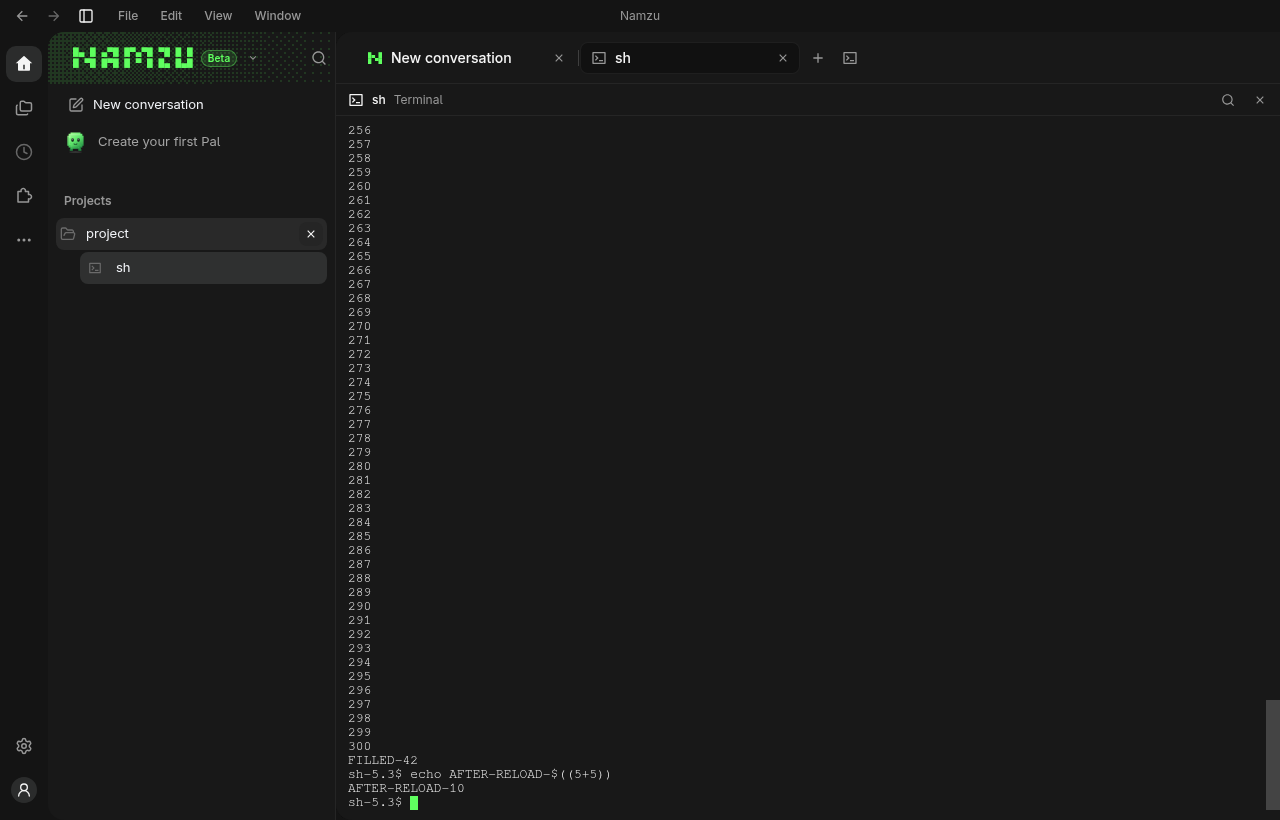
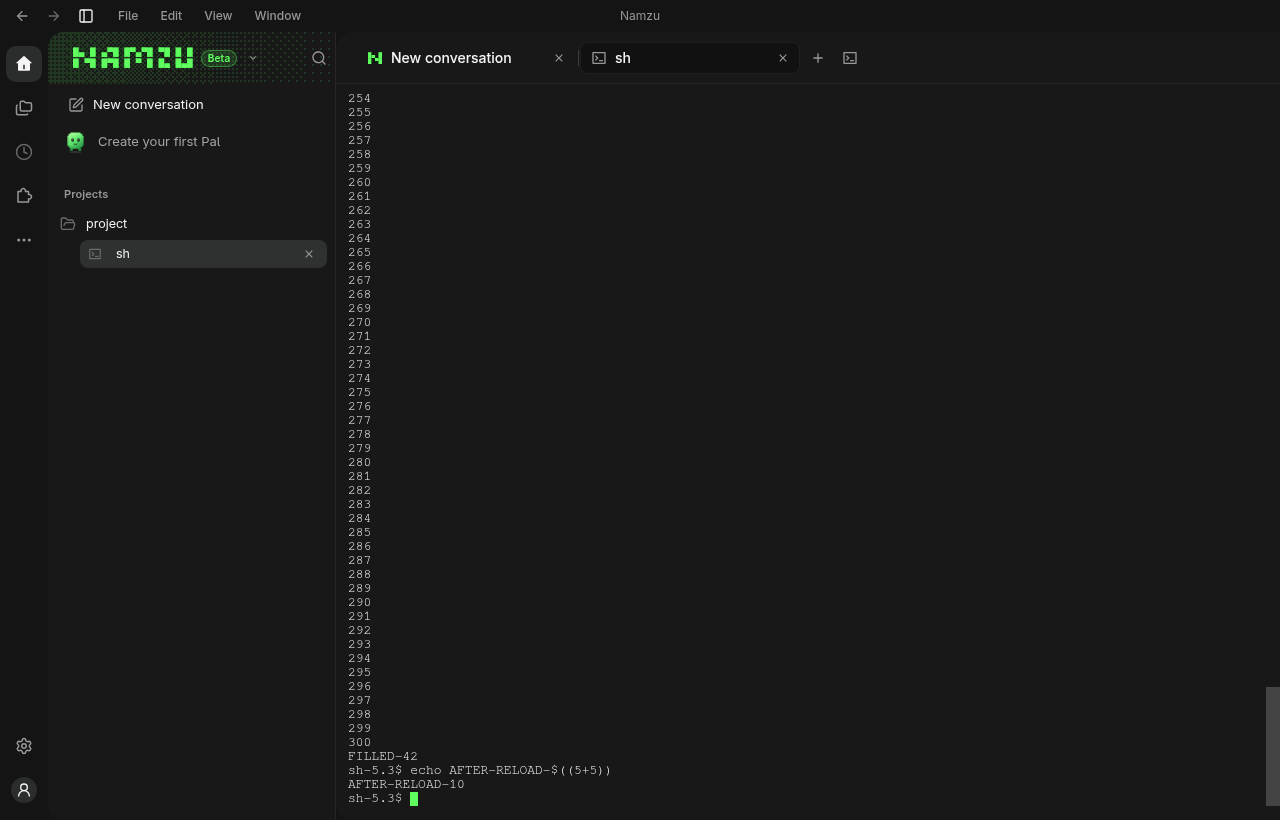
fix(desktop): no header bar on terminal panes, and a click on the pane keeps the keyboard
The pane drew its own bar (mark, title, status, find, close) that
repeated the tab strip, and pressing that bar moved focus to the page,
so keys never reached the program without any sign. The terminal now
fills the pane, find opens as an overlay with Ctrl/Cmd+F (Escape
closes it), and a press on the pane's surface returns the keyboard to
the terminal. A new real-Electron flow types a message into a Namzu CLI
tab and sees the scripted reply; the same path passed on Windows.

diff --git a/packages/desktop/src/renderer/terminal-pane.tsx b/packages/desktop/src/renderer/terminal-pane.tsx
@@ -1,11 +1,8 @@
 import { useEffect, useRef, useState, useSyncExternalStore } from 'react'
-import {
-	ACTIVITY_LABELS,
-	TERMINAL_ENGINE_LABELS,
-	type TerminalTabView,
-} from '../shared/terminal-tabs.js'
+import { ACTIVITY_LABELS, type TerminalTabView } from '../shared/terminal-tabs.js'
 import { HarnessMark } from './harness-picker.js'
-import { SearchIcon, TerminalIcon, XIcon } from './icons.js'
+import { TerminalIcon } from './icons.js'
+import { pressReturnsKeyboard } from './terminal-pane-focus.js'
 import { onTerminalFind } from './terminal-registry.js'
 import type { TerminalSession } from './terminal-session.js'
 import { Button } from './ui/button.js'
@@ -136,9 +133,6 @@ export function TerminalPane({
 	}
 
 	const ended = state.phase === 'ended'
-	const label =
-		tab.kind === 'engine' && tab.engine ? TERMINAL_ENGINE_LABELS[tab.engine] : 'Terminal'
-	const badge = terminalBadgeLabel(tab)
 	return (
 		<section
 			className="terminal-pane"
@@ -148,6 +142,14 @@ export function TerminalPane({
 			data-terminal-status={tab.status}
 			// Almost every key belongs to the program in here; only the app's own chord leaves. The
 			// emulator has had the key by the time it bubbles here.
+			// A click on the pane's own surface (a note, the padding) must not take the keyboard away
+			// from the program: only a control or the find box keeps what it was clicked for.
+			onMouseDown={(event) => {
+				if (pressReturnsKeyboard(event.target as HTMLElement)) {
+					event.preventDefault()
+					if (!finding) session.focus()
+				}
+			}}
 			onKeyDown={(event) => {
 				const native = event.nativeEvent
 				if (
@@ -159,40 +161,7 @@ export function TerminalPane({
 				event.stopPropagation()
 			}}
 		>
-			<header className="terminal-pane-bar">
-				<span className="terminal-pane-mark" aria-hidden="true">
-					<TerminalMark tab={tab} />
-				</span>
-				<span className="terminal-pane-title" title={tab.title}>
-					{tab.title}
-				</span>
-				{tab.kind === 'shell' && <span className="terminal-pane-kind">{label}</span>}
-				{badge && (
-					<span className="terminal-pane-status" data-activity={tab.activity}>
-						<TerminalBadge tab={tab} />
-						{badge}
-					</span>
-				)}
-				<span className="terminal-pane-spacer" />
-				<Button
-					variant="ghost-muted"
-					size="icon-xs"
-					aria-label="Find in terminal"
-					title="Find in terminal"
-					onClick={() => setFinding((value) => !value)}
-				>
-					<SearchIcon />
-				</Button>
-				<Button
-					variant="ghost-muted"
-					size="icon-xs"
-					aria-label={ended ? 'Close terminal tab' : 'End session and close tab'}
-					title={ended ? 'Close tab' : 'End session and close tab'}
-					onClick={onClose}
-				>
-					<XIcon />
-				</Button>
-			</header>
+			<div className="terminal-pane-screen" ref={host} data-terminal-host />
 			{finding && (
 				<form
 					className="terminal-find"
@@ -232,7 +201,6 @@ export function TerminalPane({
 					</Button>
 				</form>
 			)}
-			<div className="terminal-pane-screen" ref={host} data-terminal-host />
 			{state.phase === 'failed' && (
 				<p className="terminal-pane-note" role="alert" data-tone="error">
 					{state.error ?? 'This terminal could not be opened.'}

diff --git a/packages/desktop/src/renderer/terminal-pane.css b/packages/desktop/src/renderer/terminal-pane.css
@@ -1,4 +1,5 @@
 .terminal-pane {
+	position: relative;
 	display: flex;
 	flex-direction: column;
 	flex: 1 1 auto;
@@ -6,49 +7,7 @@
 	min-width: 0;
 	background: var(--background);
 }
-.terminal-pane-bar {
-	display: flex;
-	align-items: center;
-	gap: 0.5rem;
-	padding: 0 0.5rem 0 0.75rem;
-	height: 32px;
-	flex: none;
-	border-bottom: 1px solid var(--border);
-	font-size: var(--text-ui-sm, 12px);
-	color: var(--muted-foreground);
-}
-.terminal-pane-mark {
-	display: grid;
-	place-items: center;
-	flex: 0 0 1rem;
-	width: 1rem;
-	height: 1rem;
-	color: var(--foreground);
-}
-.terminal-pane-mark svg {
-	width: 1rem;
-	height: 1rem;
-}
-.terminal-pane-title {
-	color: var(--foreground);
-	font-weight: 500;
-	min-width: 0;
-	overflow: hidden;
-	text-overflow: ellipsis;
-	white-space: nowrap;
-}
-.terminal-pane-kind {
-	white-space: nowrap;
-}
-.terminal-pane-status {
-	display: inline-flex;
-	align-items: center;
-	gap: 0.375rem;
-	white-space: nowrap;
-}
-.terminal-pane-spacer {
-	flex: 1 1 auto;
-}
+/* The tab (strip and sidebar row) carries the title and the status; the pane is only the terminal. */
 .terminal-pane-screen {
 	position: relative;
 	flex: 1 1 auto;
@@ -83,9 +42,15 @@
 	display: flex;
 	align-items: center;
 	gap: 0.25rem;
-	padding: 0.25rem 0.75rem;
-	border-bottom: 1px solid var(--border);
-	background: var(--muted);
+	position: absolute;
+	top: 0.5rem;
+	right: 1rem;
+	z-index: 2;
+	padding: 0.25rem 0.375rem;
+	border: 1px solid var(--border);
+	border-radius: var(--radius-md, 6px);
+	background: var(--popover, var(--muted));
+	box-shadow: 0 2px 8px rgb(0 0 0 / 0.25);
 }
 .terminal-find input {
 	flex: 0 1 20rem;
@@ -149,7 +114,6 @@
  * narrower than its glyphs into a scrollbar that clips the top half and draws a gray box under it,
  * so it never scrolls; `.sidebar .namzu-wordmark` (9.5px) is out-ranked inside the terminal row.
  */
-.terminal-pane-mark .namzu-wordmark,
 .sidebar .sidebar-terminal-mark .namzu-wordmark {
 	margin: 0;
 	padding: 0;

diff --git a/packages/desktop/src/renderer/terminal-pane-focus.ts b/packages/desktop/src/renderer/terminal-pane-focus.ts
@@ -1,0 +1,14 @@
+/** What a click inside a terminal pane may do to the keyboard. */
+
+const CONTROLS = 'button, input, a, textarea, select'
+
+/**
+ * A press on the pane's own surface (padding, a note, the gap round the screen) hands the keyboard
+ * back to the program; a press on a control or the find box keeps it where the press put it.
+ * Without this a click on dead space moved focus to the page body and every key after it went nowhere.
+ */
+export function pressReturnsKeyboard(
+	target: { closest(selector: string): unknown } | null,
+): boolean {
+	return !target || !target.closest(CONTROLS)
+}

diff --git a/packages/desktop/src/renderer/terminal-pane-focus.test.ts b/packages/desktop/src/renderer/terminal-pane-focus.test.ts
@@ -1,0 +1,14 @@
+import { describe, expect, it } from 'vitest'
+import { pressReturnsKeyboard } from './terminal-pane-focus.js'
+
+const inside = (match: boolean) => ({ closest: () => (match ? {} : null) })
+
+describe('pressReturnsKeyboard', () => {
+	it('returns the keyboard to the program after a press on dead space', () => {
+		expect(pressReturnsKeyboard(inside(false))).toBe(true)
+		expect(pressReturnsKeyboard(null)).toBe(true)
+	})
+	it('leaves a press on a control or the find box alone', () => {
+		expect(pressReturnsKeyboard(inside(true))).toBe(false)
+	})
+})

diff --git a/docs/cli/desktop.md b/docs/cli/desktop.md
@@ -2123,7 +2123,7 @@ project's CLI host (see [Host terminals](#host-terminals)); the window is a view
 palette's **New terminal**, and Ctrl+Shift with the backtick key (⌘+Shift on a Mac) open a shell. The tab joins the pane
 that has focus and shares its strip with the conversations, in the order you put it: it drags,
 splits (**Move to right pane**, **Split down**) and moves to a new window like a conversation tab,
-and the sidebar lists it under its project with a terminal mark. The terminal on screen is made once
+and the sidebar lists it under its project with a terminal mark. The pane has no header of its own: the terminal fills it, the tab (strip and sidebar row) carries the title and status, closing is the tab's close, and the region is still named `<title> terminal` for assistive technology. A click on the pane's dead space hands the keyboard back to the program. The terminal on screen is made once
 per tab and kept while the tab is in the window, so switching to a conversation and back costs
 nothing and keeps the scrollback; reloading the window rebuilds the screen from the host's snapshot.
 
@@ -2150,8 +2150,7 @@ several lines pasted into a program that did not ask for bracketing ask first. T
 contrast of 4.5:1, selected text has its own opaque colours, and an ended session hides its cursor. Almost every key belongs to the program, including
 `Ctrl+K`, `Ctrl+N` and `Escape`, which the rest of the app uses elsewhere: the pane stops them at its
 edge. The exceptions are `Ctrl+C` (the interrupt, unless text is selected, then a copy; `Ctrl+Shift+C`
-always copies), `Ctrl+V` and `Ctrl+Shift+V` (paste, bracketed when the program asks), `Ctrl+F` (a find
-bar) and the new-terminal chord (Ctrl+Shift+backtick); on a Mac the same chords use `⌘`. The terminal follows the pane's
+always copies), `Ctrl+V` and `Ctrl+Shift+V` (paste, bracketed when the program asks), `Ctrl+F` (a small find overlay inside the terminal; `Escape` closes it) and the new-terminal chord (Ctrl+Shift+backtick); on a Mac the same chords use `⌘`. The terminal follows the pane's
 size: the view fits itself, tells the host, and the program and the host's own screen resize together.
 Only one view types into a terminal; a second window that opens the same tab watches and offers
 **Take over**; when a window reloads, navigates or closes, its views are released so the new page
@@ -2212,7 +2211,7 @@ before anything is built.
 
 ### Status badge
 
-An engine's tab carries a dot (and the pane bar says it in words) for what its program is doing, read
+An engine's tab carries a dot (its accessible name says it in words) for what its program is doing, read
 from nothing but its output and its end: **Working** (output in the last 1.5 s, or just started),
 **Waiting for input** (it printed and went quiet), **Idle** (quiet for a minute) and **Exited** (red,
 `Exited with code N`, when the code is not zero). When an engine's program ends with a non-zero code

diff --git a/docs/log.md b/docs/log.md
@@ -2,6 +2,7 @@
 
 ## 2026-10-09
 
+- **Update** [Desktop](cli/desktop.md#terminal-tabs) removes the terminal pane's own header bar (the tab already carries title and status; find is Ctrl/⌘+F as an overlay, closing is the tab's close) and fixes a click on the pane's dead space taking the keyboard from the program, so typed messages went nowhere.
 - **Update** [Desktop](cli/desktop.md) makes the sidebar rows compact and gives each row one surface: the project heading no longer draws a second filled box around its name on hover, and the toggle, remove, pin and archive icons only change colour; rows are 28px (projects 30px) with 12.5px titles, Show more/less 12px, and Projects/Recents headers 11px.
 
 ## 2026-10-08
